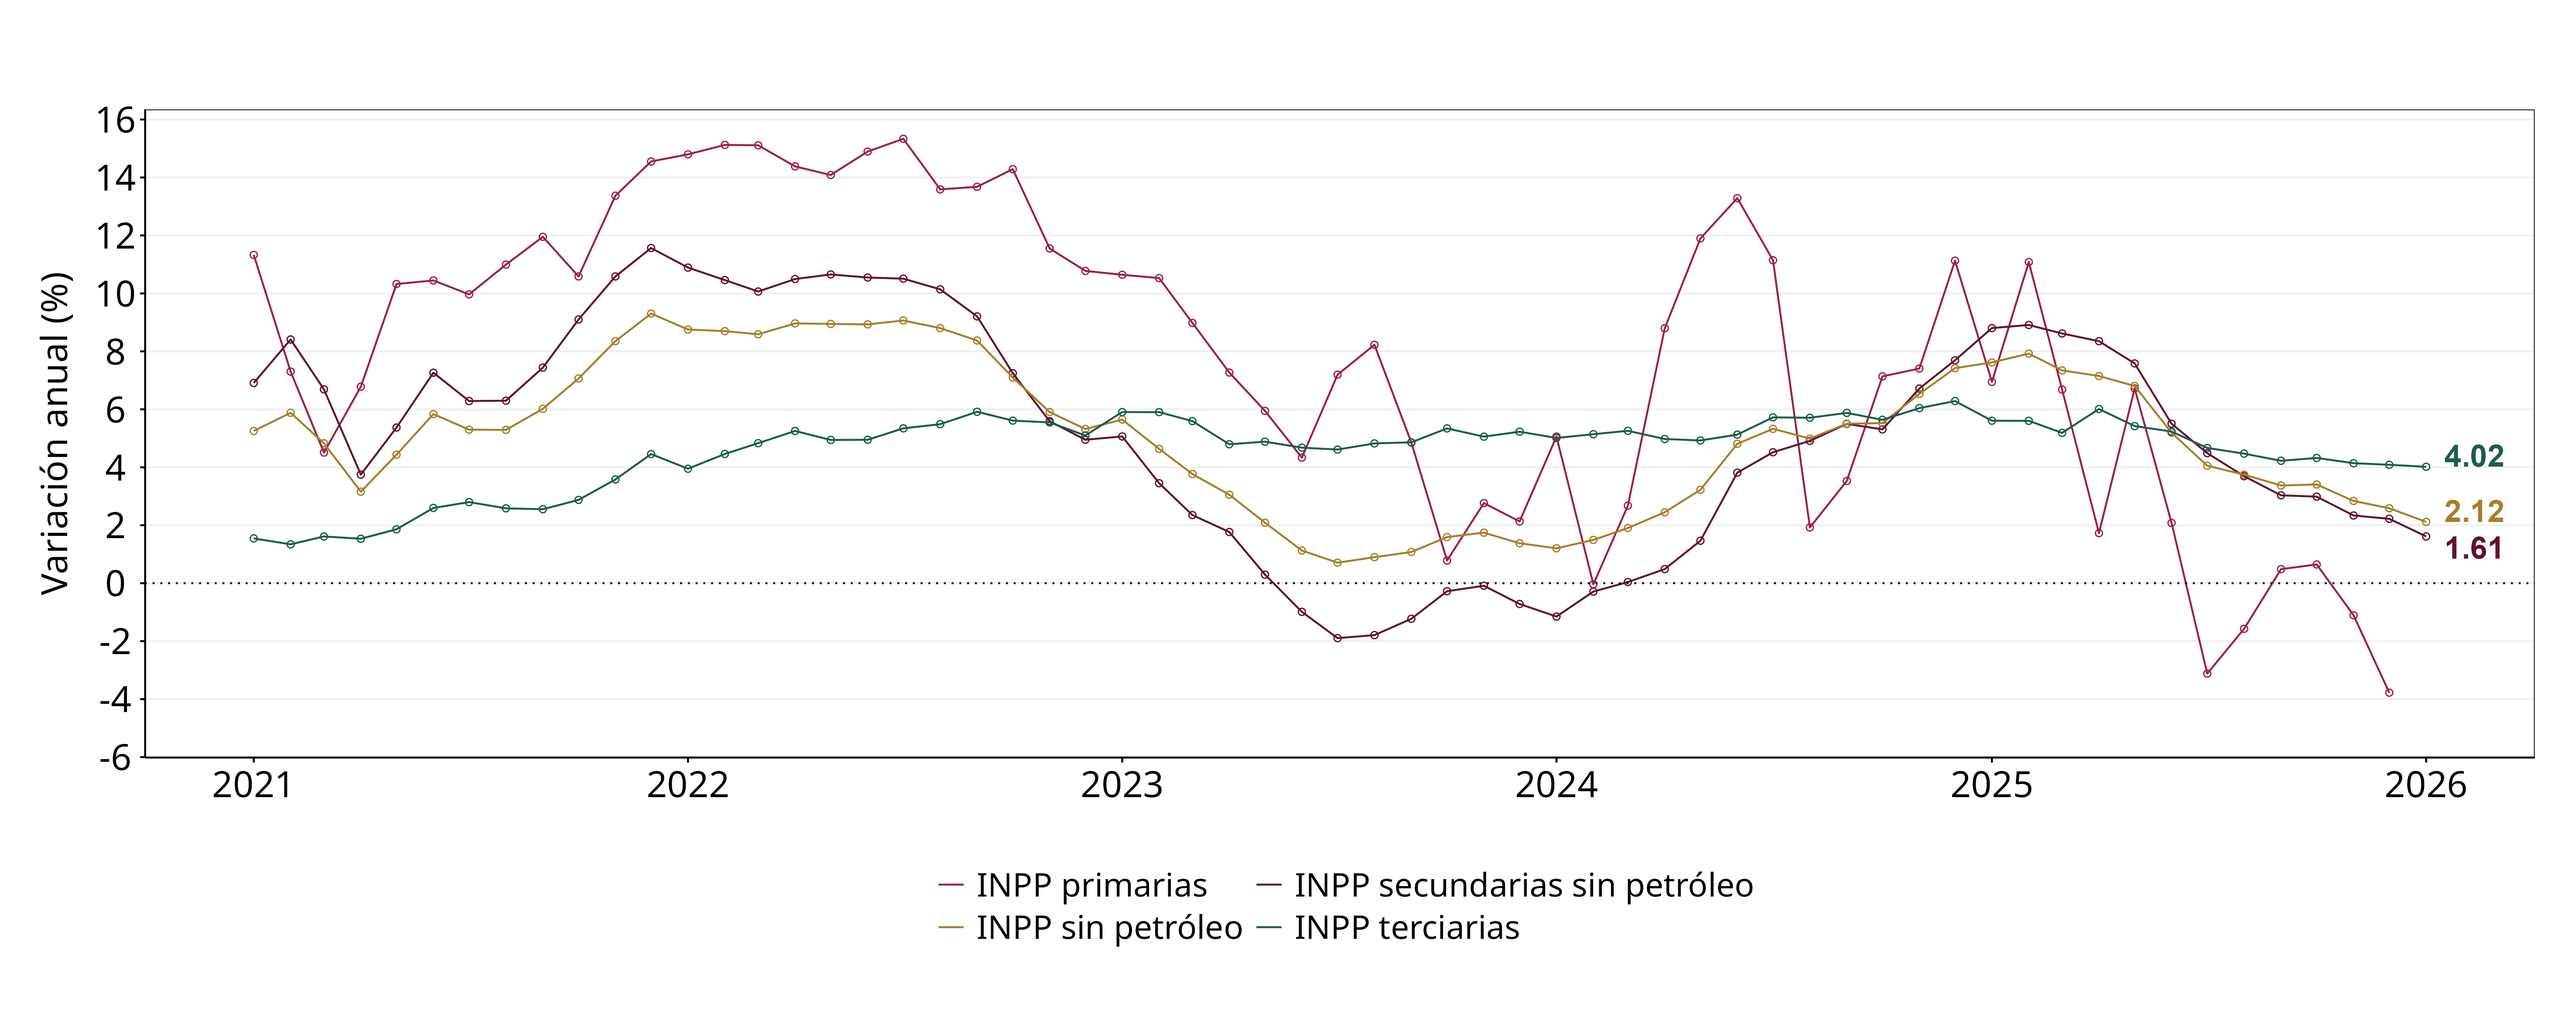
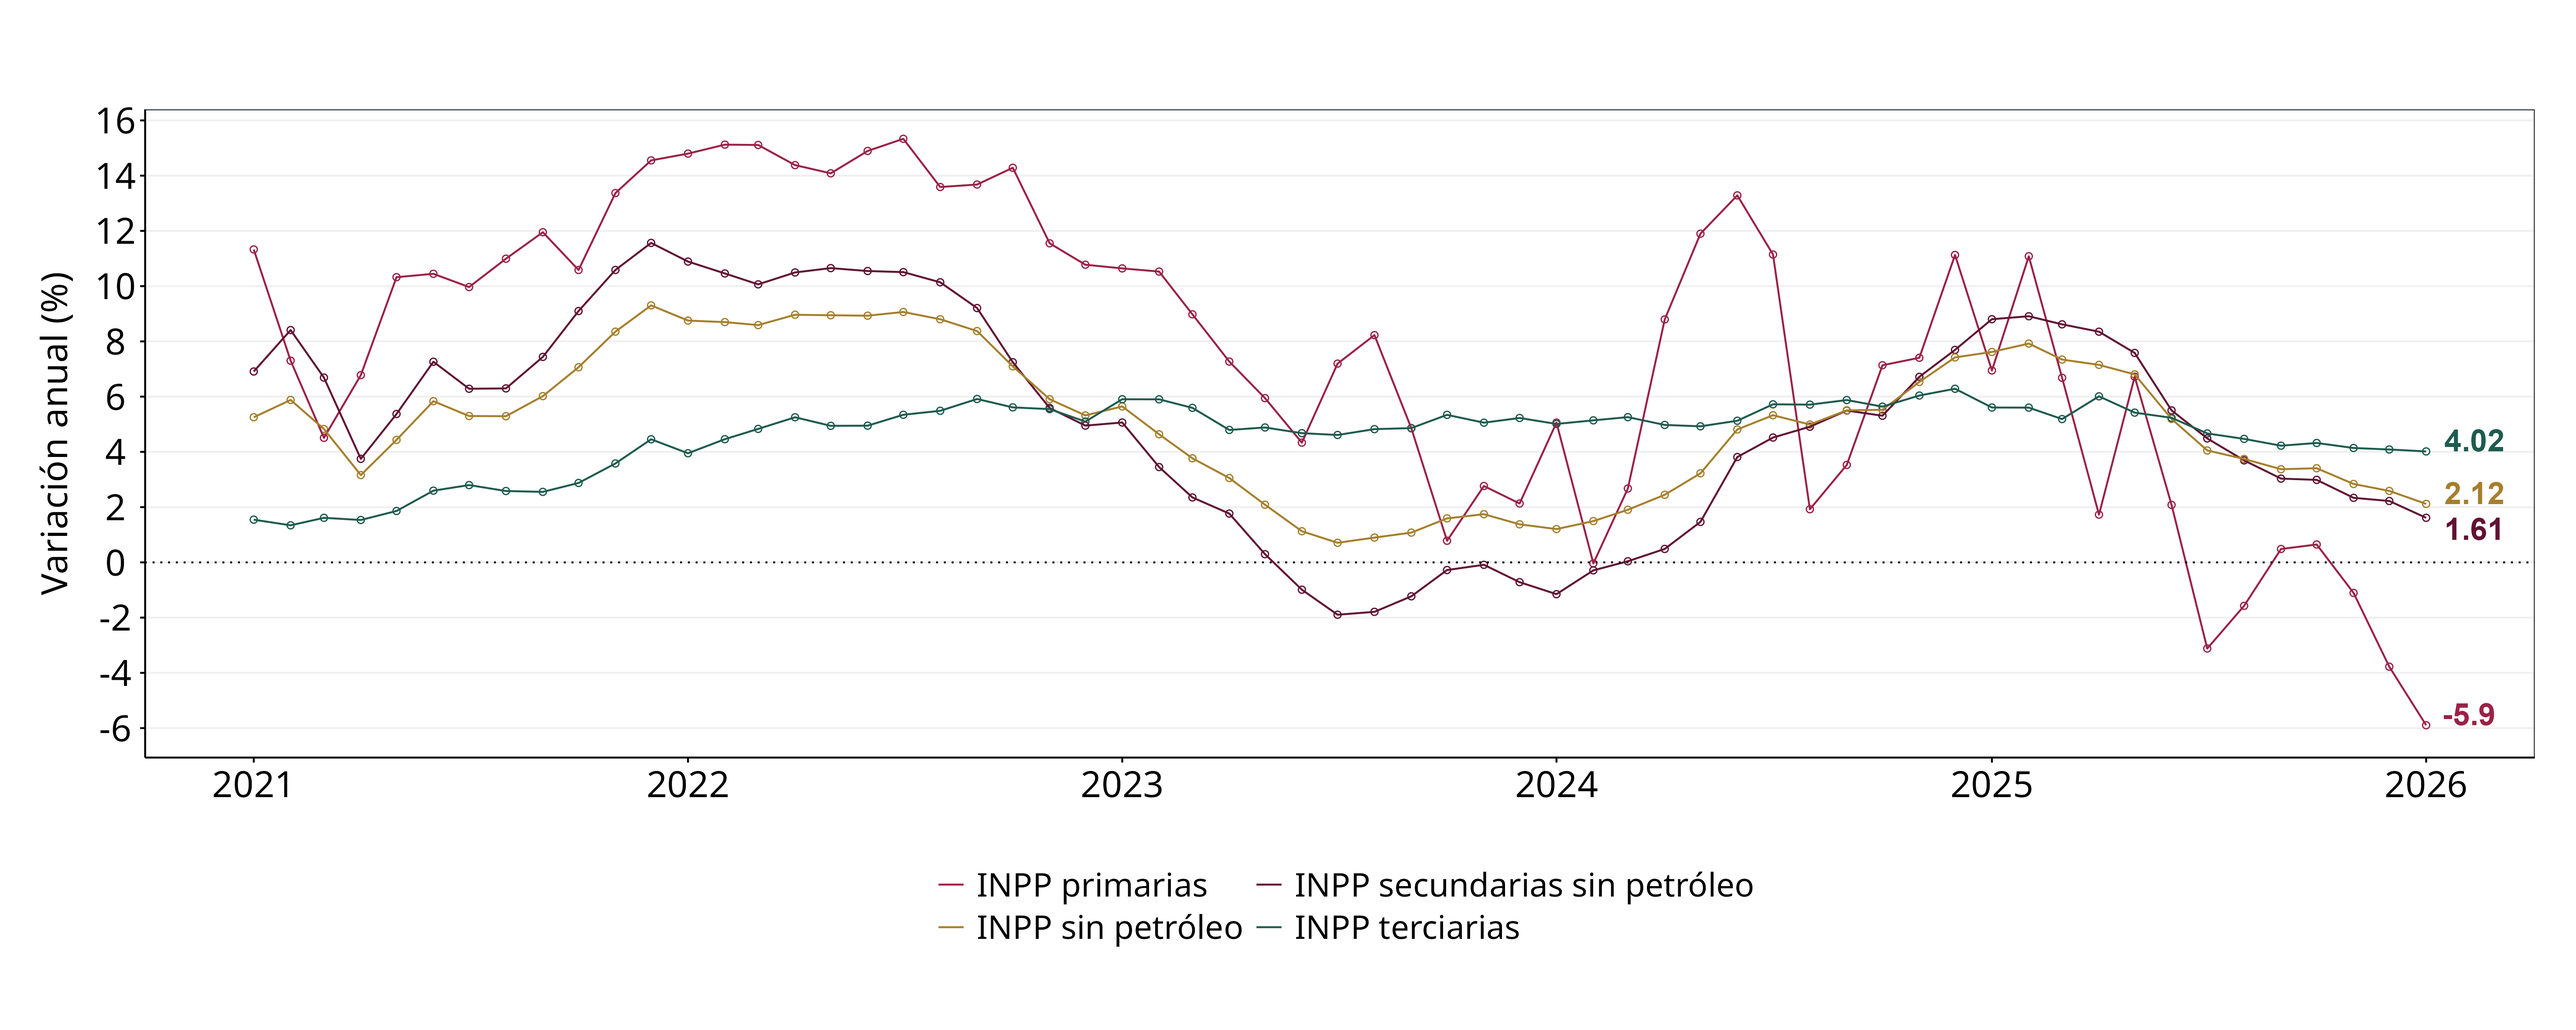
Se cambiaron cosas de las gráficas

diff --git a/reporte_precios.html b/reporte_precios.html
@@ -676,6 +676,30 @@ ul.task-list li input[type="checkbox"] {
 </div>
 </div>
 </section>
+<section id="índice-nacional-de-precios-al-productor" class="level2">
+<h2 class="anchored" data-anchor-id="índice-nacional-de-precios-al-productor">índice Nacional de Precios al Productor</h2>
+<p>El INPP registró una variación anual de 2.12% y una variación mensual de 0.14% en January de 2026.</p>
+<p>Por grupos de actividad económica, el INPP primarias, el INPP secundarias sin petróleo y el INPP terciarias tuvieron una variación anual de -5.9%, 1.61%, y 4.02%, respectivamente. Las variaciones mensuales para el INPP primarias, el INPP secundarias sin petróleo y el INPP terciarias fueron de -2.41%, 0.74% y -0.64%, respectivamente.</p>
+<div class="cell">
+<div class="cell-output-display">
+<div>
+<figure class="figure">
+<p><img src="reporte_precios_files/figure-html/unnamed-chunk-10-1.png" class="img-fluid figure-img" width="672"></p>
+</figure>
+</div>
+</div>
+</div>
+<p>El INPP de bienes finales tuvo una variación anual de 2.45% y una variación mensual de 0.03%. Por su parte, el INPP intermedios tuvo una variación anual de 1.27% y una variación mensual de 0.44%.</p>
+<div class="cell">
+<div class="cell-output-display">
+<div>
+<figure class="figure">
+<p><img src="reporte_precios_files/figure-html/unnamed-chunk-11-1.png" class="img-fluid figure-img" width="672"></p>
+</figure>
+</div>
+</div>
+</div>
+</section>
 
 </main>
 <!-- /main column -->
